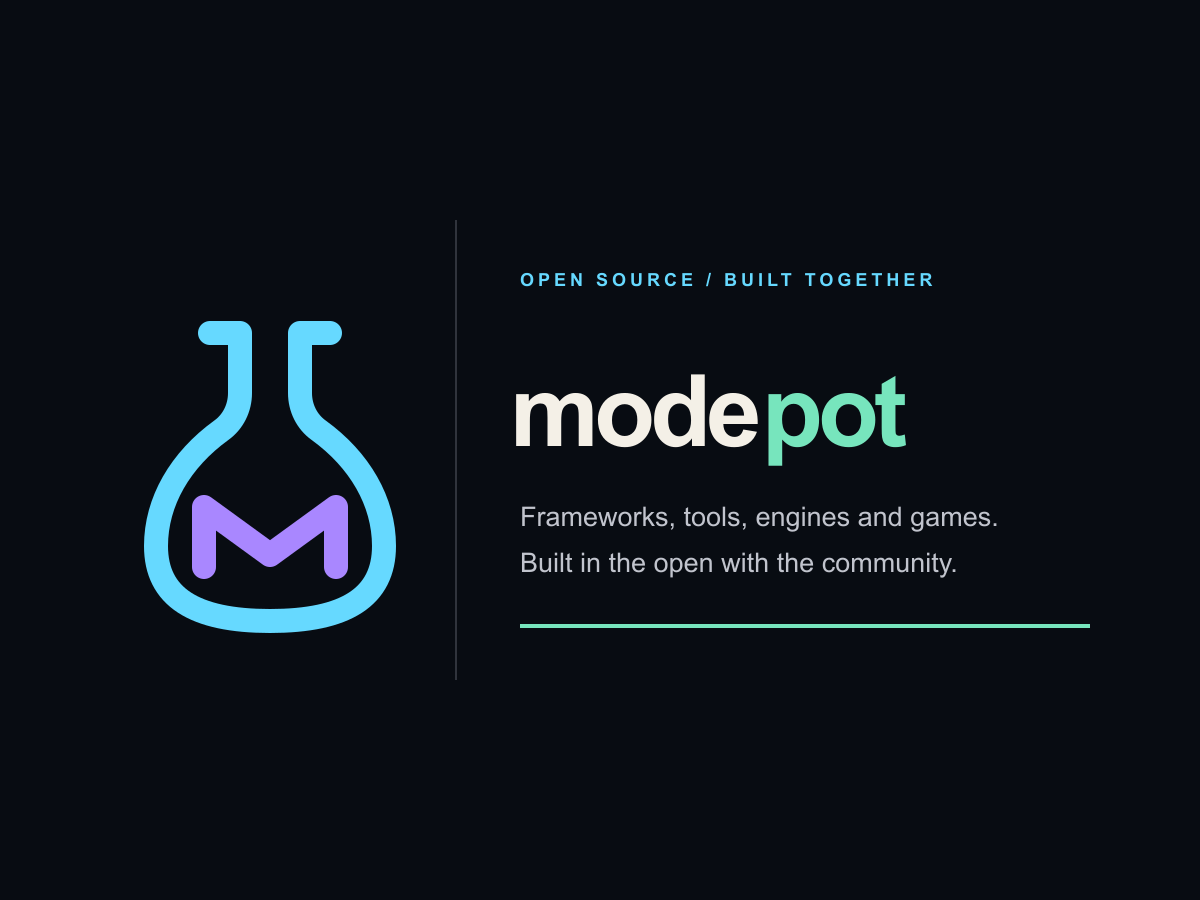
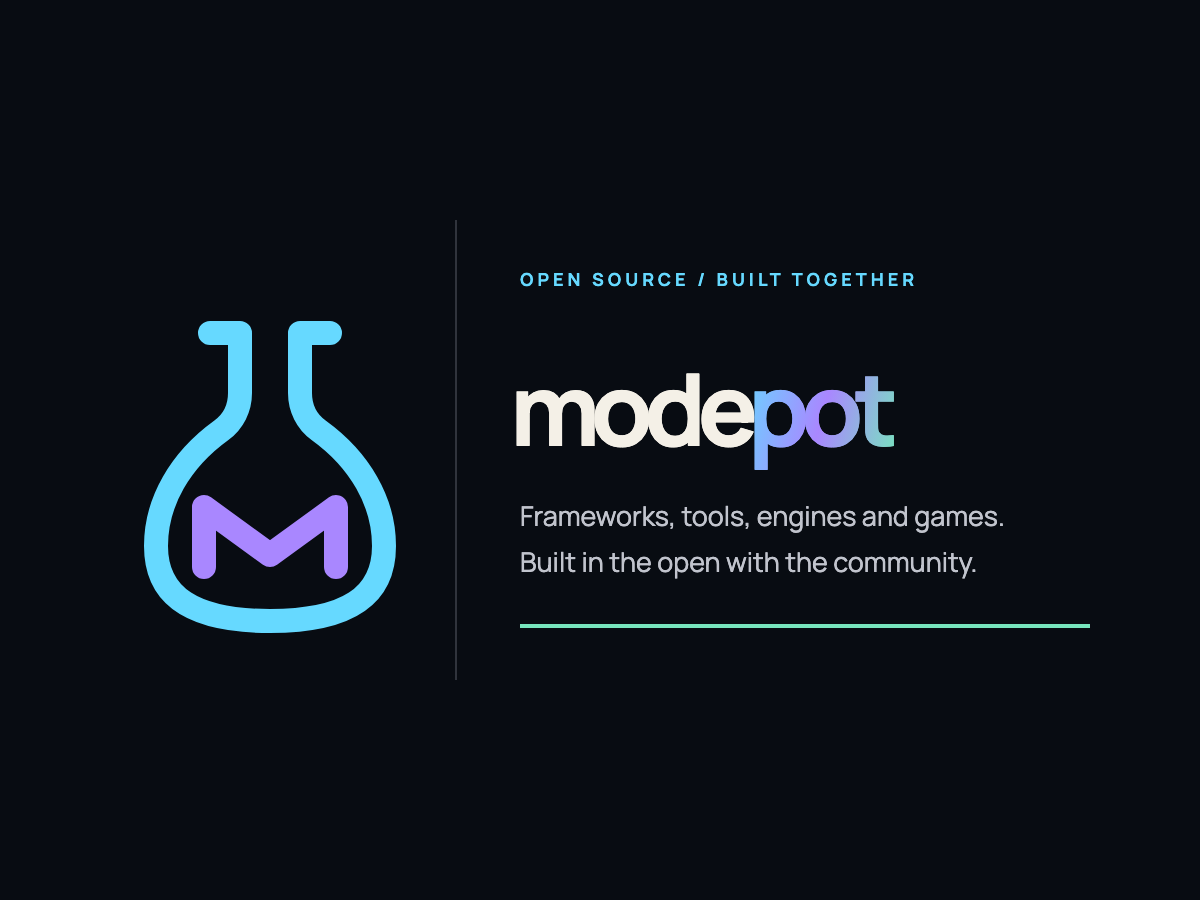
fix: align ModePot README and social wordmarks with website

diff --git a/BRAND.md b/BRAND.md
@@ -11,6 +11,20 @@ ModePot uses one shared vessel geometry and a distinct interior symbol for each 
 | Intpot | [`public/marks/intpot-mark.svg`](public/marks/intpot-mark.svg) | One typed source branching into three interfaces | `#F2B84B` |
 | Summonpot | [`public/marks/summonpot-mark.svg`](public/marks/summonpot-mark.svg) | An agent-owned decision inside an explicit boundary | `#A987FF` |
 | LifePot | [`public/marks/lifepot-mark.svg`](public/marks/lifepot-mark.svg) | A growing cellular system | `#77E5BD` |
+| RefPot | [`public/marks/refpot-mark.svg`](public/marks/refpot-mark.svg) | A layered store of records inside an explicit boundary | Off-white / graphite, `#F4F2EA` |
+| UtilityPot | [`public/marks/utilitypot-mark-v1.svg`](public/marks/utilitypot-mark-v1.svg) | A bounded, inspectable utility workflow | Rose, `#F28CBE` |
+
+## ModePot wordmark and lockups
+
+The website wordmark is the reference for the README and social lockups, not a sibling product's single-accent suffix:
+
+- Lowercase `modepot`, Manrope weight 720, tracking `-0.085em` in the large wordmark.
+- Off-white `mode` (`#F4F0E7`); `pot` carries the same 105-degree cyan–violet–mint gradient as `src/styles/multicolour-identity.css`: `#66D9FF` at 0%, `#A987FF` at 52%, and `#77E5BD` at 100%. Do not replace it with a flat mint suffix.
+- Keep the vessel outline cyan and the M monogram violet. The compact mark's geometry does not change between surfaces.
+- Preserve the README's 1200 × 900 canvas displayed at 600 px and the social card's 1200 × 630 canvas. Their compositions serve different formats; their wordmark treatment must agree.
+- Describe AI and agent support with the website's qualification: **AI-native and agent-friendly where they add real value**. It does not define every project.
+
+The editable sources are `public/products/modepot-lockup.svg` and `public/modepot-og.svg`. Run `npm run render:identity` to regenerate both the README PNG and social WebP with the declared local fonts. Run `npm run check:identity` to check committed derivatives without changing files, and `npm run test:identity` for suffix-region colour, geometry and positioning regressions. Commit the edited sources and their generated derivatives together.
 
 ## Usage
 

diff --git a/README.md b/README.md
@@ -1,7 +1,7 @@
 <p align="center">
   <picture>
-    <source media="(prefers-color-scheme: dark)" srcset="public/products/modepot-lockup.png?v=family-hero-1">
-    <img src="public/products/modepot-lockup.png?v=family-hero-1" alt="ModePot — open-source software foundations, tools and games" width="600">
+    <source media="(prefers-color-scheme: dark)" srcset="public/products/modepot-lockup.png?v=wordmark-parity-1">
+    <img src="public/products/modepot-lockup.png?v=wordmark-parity-1" alt="ModePot — open-source software foundations, tools and games" width="600">
   </picture>
 </p>
 
